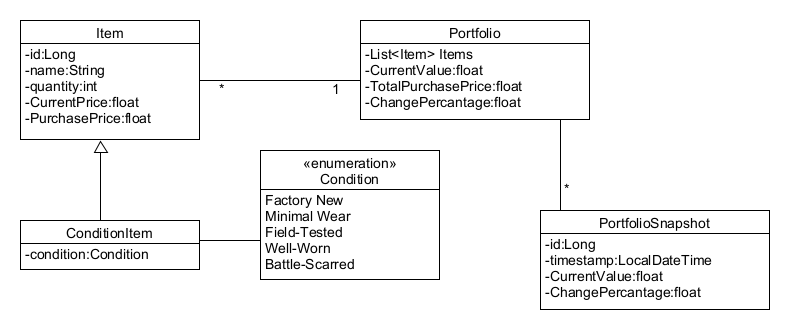
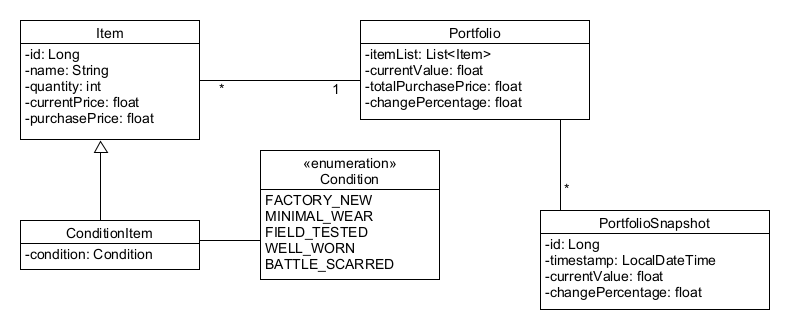
BACKEND: Implementing first class diagramm and correcting spellings in the class diagram

diff --git a/backend/src/main/java/github/project/CSP/inventory/PortfolioSnapshots.java b/backend/src/main/java/github/project/CSP/inventory/PortfolioSnapshots.java
@@ -1,0 +1,20 @@
+package github.project.CSP.inventory;
+
+import jakarta.persistence.Entity;
+import jakarta.persistence.GeneratedValue;
+import jakarta.persistence.GenerationType;
+import jakarta.persistence.Id;
+import lombok.Data;
+
+import java.time.LocalDateTime;
+
+@Entity
+@Data
+public class PortfolioSnapshots {
+    @Id
+    @GeneratedValue(strategy = GenerationType.IDENTITY)
+    private long id;
+    private LocalDateTime timestamp;
+    private float currentValue;
+    private float changePercentage;
+}

diff --git a/backend/src/main/java/github/project/CSP/inventory/Portfolio.java b/backend/src/main/java/github/project/CSP/inventory/Portfolio.java
@@ -1,0 +1,12 @@
+package github.project.CSP.inventory;
+
+import lombok.Data;
+
+import java.util.List;
+@Data
+public class Portfolio {
+    private List<Item> itemList;
+    private float currentValue;
+    private float totalPurchasePrice;
+    private float changePercentage;
+}

diff --git a/backend/src/main/java/github/project/CSP/repository/SnapshotRepository.java b/backend/src/main/java/github/project/CSP/repository/SnapshotRepository.java
@@ -1,0 +1,7 @@
+package github.project.CSP.repository;
+
+import github.project.CSP.inventory.PortfolioSnapshots;
+import org.springframework.data.jpa.repository.JpaRepository;
+
+public interface SnapshotRepository extends JpaRepository<PortfolioSnapshots, Long> {
+}

diff --git a/backend/src/main/java/github/project/CSP/inventory/Item.java b/backend/src/main/java/github/project/CSP/inventory/Item.java
@@ -9,8 +9,8 @@ import lombok.Data;
 public class Item {
     @Id
     private Long id;
-
     private String name;
-
-    private float price;
+    private int quantity;
+    private float currentPrice;
+    private float purchasePrice;
 }

diff --git a/backend/src/main/java/github/project/CSP/inventory/ConditionItem.java b/backend/src/main/java/github/project/CSP/inventory/ConditionItem.java
@@ -1,0 +1,10 @@
+package github.project.CSP.inventory;
+
+import lombok.Data;
+import lombok.EqualsAndHashCode;
+
+@EqualsAndHashCode(callSuper = true)
+@Data
+public class ConditionItem extends Item {
+    private Condition condition;
+}

diff --git a/backend/src/main/java/github/project/CSP/inventory/Condition.java b/backend/src/main/java/github/project/CSP/inventory/Condition.java
@@ -1,0 +1,9 @@
+package github.project.CSP.inventory;
+
+public enum Condition {
+    FACTORY_NEW,
+    MINIMAL_WEAR,
+    FIELD_TESTED,
+    WELL_WORN,
+    BATTLE_SCARRED
+}
